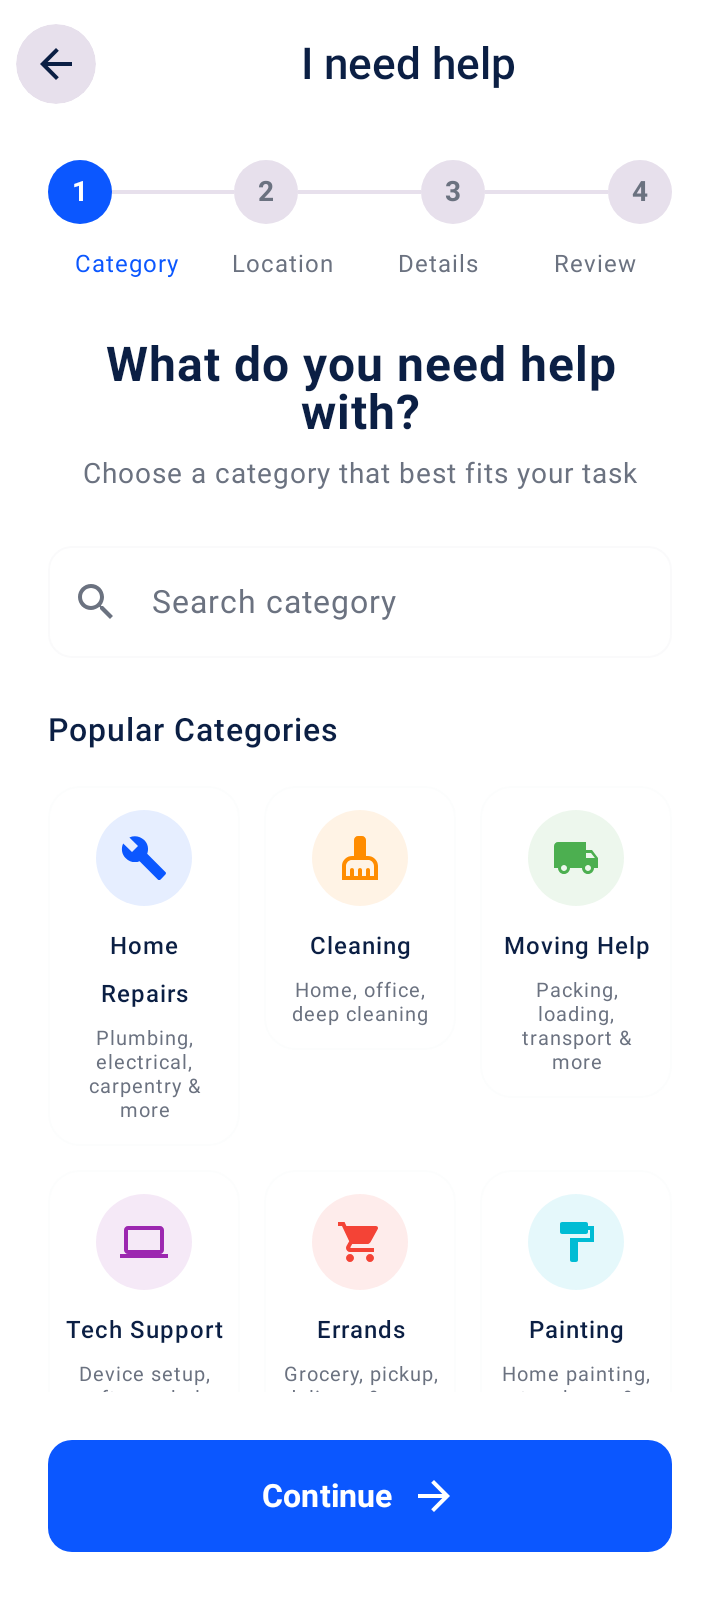
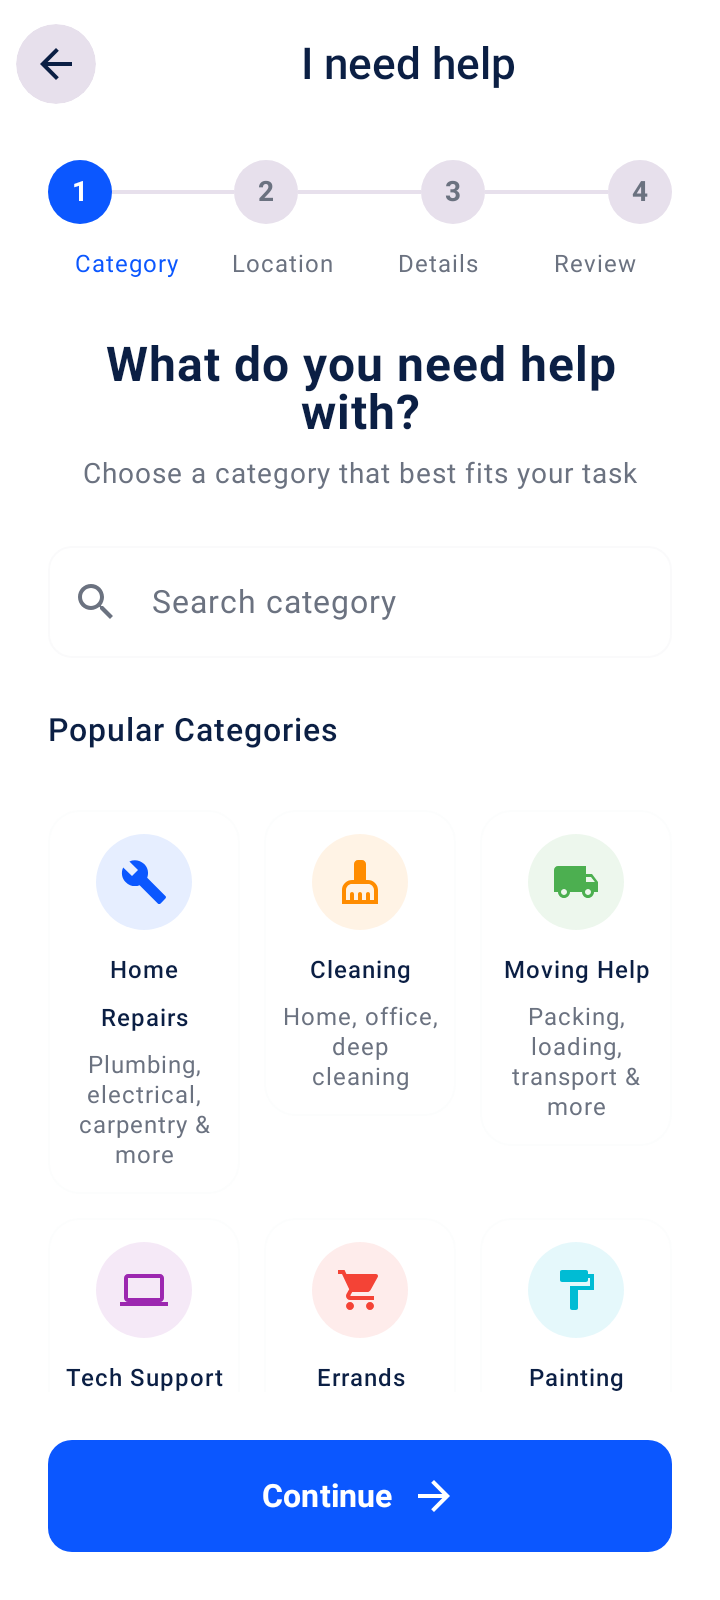
fix(ui): no text below 12 sp; category screen scrolls as one list on small phones (UI-06, UI-07)
On 320x568 phones the fixed heading left a ~60 dp strip for the category tiles.
Heading and search are now the first item of the grid, Continue stays pinned.

Claude-Session: https://claude.ai/code/session_01QY28zRNwgX2X3WFNLJZYHr

diff --git a/app/src/main/java/com/example/ui/screens/taskflow/TaskCategoryScreen.kt b/app/src/main/java/com/example/ui/screens/taskflow/TaskCategoryScreen.kt
@@ -8,6 +8,7 @@ import androidx.compose.foundation.background
 import androidx.compose.foundation.clickable
 import androidx.compose.foundation.layout.*
 import androidx.compose.foundation.lazy.grid.GridCells
+import androidx.compose.foundation.lazy.grid.GridItemSpan
 import androidx.compose.foundation.lazy.grid.LazyVerticalGrid
 import androidx.compose.foundation.lazy.grid.items
 import androidx.compose.foundation.rememberScrollState
@@ -42,48 +43,12 @@ fun TaskCategoryScreen(onNext: () -> Unit, viewModel: TaskViewModel) {
             .fillMaxSize()
             .padding(horizontal = 24.dp)
     ) {
-        Text(
-            text = stringResource(R.string.taskcategory_what_do_you_need_help_with),
-            fontSize = 24.sp,
-            fontWeight = FontWeight.Bold,
-            color = MaterialTheme.colorScheme.onBackground,
-            textAlign = TextAlign.Center,
-            modifier = Modifier.fillMaxWidth().padding(top = 8.dp)
-        )
-        
-        Text(
-            text = stringResource(R.string.taskcategory_choose_a_category_that_best_fits),
-            fontSize = 14.sp,
-            color = MaterialTheme.colorScheme.onSurfaceVariant,
-            textAlign = TextAlign.Center,
-            modifier = Modifier.fillMaxWidth().padding(top = 4.dp, bottom = 24.dp)
-        )
-        
         var showError by remember { mutableStateOf(false) }
         val filteredCategories = dummyCategories.filter {
             it.title.contains(uiState.searchCategoryQuery, ignoreCase = true) ||
             it.subtitle.contains(uiState.searchCategoryQuery, ignoreCase = true)
         }
 
-        OutlinedTextField(
-            value = uiState.searchCategoryQuery,
-            onValueChange = { viewModel.updateSearchCategoryQuery(it) },
-            placeholder = { Text(stringResource(R.string.taskcategory_search_category)) },
-            leadingIcon = { Icon(Icons.Default.Search, contentDescription = null) },
-            modifier = Modifier.fillMaxWidth(),
-            shape = RoundedCornerShape(12.dp),
-            colors = OutlinedTextFieldDefaults.colors(
-                unfocusedBorderColor = MaterialTheme.colorScheme.outline.copy(alpha = 0.2f)
-            )
-        )
-        
-        Text(
-            text = stringResource(R.string.taskcategory_popular_categories),
-            fontSize = 16.sp,
-            fontWeight = FontWeight.SemiBold,
-            modifier = Modifier.padding(top = 24.dp, bottom = 16.dp)
-        )
-        
         LazyVerticalGrid(
             // 3 columns on phones, more on tablets, fewer when the user's font size is large
             columns = GridCells.Adaptive(minSize = 96.dp * LocalConfiguration.current.fontScale.coerceIn(1f, 1.6f)),
@@ -91,6 +56,46 @@ fun TaskCategoryScreen(onNext: () -> Unit, viewModel: TaskViewModel) {
             verticalArrangement = Arrangement.spacedBy(12.dp),
             modifier = Modifier.weight(1f)
         ) {
+            // Heading and search scroll together with the tiles, so small phones show more tiles.
+            item(span = { GridItemSpan(maxLineSpan) }) {
+                Column {
+                Text(
+                    text = stringResource(R.string.taskcategory_what_do_you_need_help_with),
+                    fontSize = 24.sp,
+                    fontWeight = FontWeight.Bold,
+                    color = MaterialTheme.colorScheme.onBackground,
+                    textAlign = TextAlign.Center,
+                    modifier = Modifier.fillMaxWidth().padding(top = 8.dp)
+                )
+        
+                Text(
+                    text = stringResource(R.string.taskcategory_choose_a_category_that_best_fits),
+                    fontSize = 14.sp,
+                    color = MaterialTheme.colorScheme.onSurfaceVariant,
+                    textAlign = TextAlign.Center,
+                    modifier = Modifier.fillMaxWidth().padding(top = 4.dp, bottom = 24.dp)
+                )
+        
+                OutlinedTextField(
+                    value = uiState.searchCategoryQuery,
+                    onValueChange = { viewModel.updateSearchCategoryQuery(it) },
+                    placeholder = { Text(stringResource(R.string.taskcategory_search_category)) },
+                    leadingIcon = { Icon(Icons.Default.Search, contentDescription = null) },
+                    modifier = Modifier.fillMaxWidth(),
+                    shape = RoundedCornerShape(12.dp),
+                    colors = OutlinedTextFieldDefaults.colors(
+                        unfocusedBorderColor = MaterialTheme.colorScheme.outline.copy(alpha = 0.2f)
+                    )
+                )
+        
+                Text(
+                    text = stringResource(R.string.taskcategory_popular_categories),
+                    fontSize = 16.sp,
+                    fontWeight = FontWeight.SemiBold,
+                    modifier = Modifier.padding(top = 24.dp, bottom = 16.dp)
+                )
+                }
+            }
             items(filteredCategories) { category ->
                 val isSelected = selectedCategory == category.id
                 
@@ -155,10 +160,10 @@ fun TaskCategoryScreen(onNext: () -> Unit, viewModel: TaskViewModel) {
                             
                             Text(
                                 text = category.subtitle,
-                                fontSize = 10.sp,
+                                fontSize = 12.sp,
                                 color = MaterialTheme.colorScheme.onSurfaceVariant,
                                 textAlign = TextAlign.Center,
-                                lineHeight = 12.sp
+                                lineHeight = 15.sp
                             )
                         }
                     }

diff --git a/app/src/main/java/com/example/ui/screens/helper/WorkerChatScreen.kt b/app/src/main/java/com/example/ui/screens/helper/WorkerChatScreen.kt
@@ -180,7 +180,7 @@ fun ChatListItem(task: TaskEntity, onClick: () -> Unit) {
                     shape = RoundedCornerShape(4.dp),
                     modifier = Modifier.padding(end = 6.dp)
                 ) {
-                    Text(category, color = BluePrimary, fontSize = 10.sp, fontWeight = FontWeight.Bold, modifier = Modifier.padding(horizontal = 6.dp, vertical = 2.dp))
+                    Text(category, color = BluePrimary, fontSize = 12.sp, fontWeight = FontWeight.Bold, modifier = Modifier.padding(horizontal = 6.dp, vertical = 2.dp))
                 }
             }
             Spacer(modifier = Modifier.height(4.dp))
@@ -387,7 +387,7 @@ fun MessageBubble(text: String, isSender: Boolean, time: String, status: String?
             }
             Spacer(modifier = Modifier.height(4.dp))
             Row(verticalAlignment = Alignment.CenterVertically) {
-                Text(time, fontSize = 11.sp, color = SecondaryGrey)
+                Text(time, fontSize = 12.sp, color = SecondaryGrey)
                 if (isSender && status != null) {
                     Spacer(modifier = Modifier.width(4.dp))
                     Icon(

diff --git a/docs/audit/APP_AUDIT_REPORT.md b/docs/audit/APP_AUDIT_REPORT.md
@@ -193,8 +193,8 @@ Status: **Open** · **Fixed** (commit on branch) · **Preview** (mockup waiting 
 | UI-03 | `MobileLoginFlow.kt`, `ProfileAndPermissions.kt:150` | Mobile, OTP, Forgot, Permission screens not scrollable; keyboard hides buttons at large font | P2 | Scroll + keyboard padding | Fixed |
 | UI-04 | `MobileLoginFlow.kt:58`, `SignInAndSignUp.kt:99-115`, `TaskFlowContainer.kt:228` | Max font: "+91" box wraps to 2 lines, "Forgot Password?" becomes a vertical strip, step labels break mid-word (V — `mockups/before/*_font200_before.png`) | P2 | Flexible widths, wrap rows, single-line labels | Fixed |
 | UI-05 | `RoleSelectionScreen.kt:281` | Role card fixed 160 dp height → text clipped at max font size (V) | P2 | `heightIn(min = 160.dp)` | Fixed |
-| UI-06 | `TaskCategoryScreen.kt:69-77` | Category tiles fixed 0.8 ratio, 10 sp text → clipped at max font; 3 columns even on tablets | P2 | Adaptive columns, min height | Fixed |
-| UI-07 | many | Text 10–12 sp is too small for older users | P3 | Design tokens / type scale | Open |
+| UI-06 | `TaskCategoryScreen.kt:69-77` | Category tiles fixed 0.8 ratio, 10 sp text → clipped at max font; 3 columns even on tablets; on 320×568 phones the tiles were stuck in a ~60 dp strip under a fixed heading | P2 | Adaptive columns, min height; heading + search now scroll with the tiles | Fixed |
+| UI-07 | many | Text 10–12 sp is too small for older users | P3 | No text below 12 sp now; category subtitles got proper line spacing. Full design-token pass still open | Partly fixed |
 | UI-08 | `MainActivity.kt:13`, `res/values/themes.xml` | Phone in dark mode → status-bar icons white on white app; MIUI force-dark may invert colours; window bg not set (black flash) | P1 | Force dark status-bar icons, `forceDarkAllowed=false`, white window bg, light Material theme | Fixed |
 | UI-09 | `Theme.kt:20-28` | `onSurface` = grey #6B7280; with 60 % alpha subtitles become ~2.6:1 contrast (fails 4.5:1; unreadable in sunlight) | P2 | `onSurface` = navy, `onSurfaceVariant` = grey | Fixed |
 | UI-10 | all | Tablets/landscape: single column stretched edge-to-edge (1,200 dp wide buttons) | P3 | Content capped at 640 dp, centred (`ui/theme/AppFrame.kt`) (V screenshot) | Fixed |
@@ -246,7 +246,7 @@ Status: **Open** · **Fixed** (commit on branch) · **Preview** (mockup waiting 
 | BRK-15 | `HelperFlowContainer.kt:53` | Chat badge always "3" | P3 | Remove fake badge | Fixed |
 | BRK-16 | `RoleSelectionScreen.kt:50` | Hindi choice not saved, not app-wide; "change later in settings" — no settings | P2 | App-wide i18n (I18N-01) | Open |
 | BRK-17 | — | Customer can't see posted tasks or offers | P1 | "My tasks" screen | Preview (batch 2) |
-| I18N-01 | all `.kt` | All text hardcoded in Kotlin; only role screen has Hindi | P2 | Move to `strings.xml`, add `values-hi` (D13) | Open |
+| I18N-01 | all `.kt` | All text hardcoded in Kotlin; only role screen has Hindi | P2 | 116 texts of login, role and task-posting screens moved to `strings.xml` (screens pixel-identical). Left: ~50 texts built from values / pop-ups / role-screen Hindi pairs, all helper screens, then `values-hi` (D13) | Partly fixed |
 
 ### B. QA walkthrough highlights (personas)
 | # | Persona | Steps | Expected | Actual | Sev | ID |

diff --git a/docs/audit/MANUAL_TEST_CHECKLIST.md b/docs/audit/MANUAL_TEST_CHECKLIST.md
@@ -15,6 +15,8 @@ Redmi/Realme), one mid-range Android, one tablet or foldable.
 - [ ] 3-button navigation and gesture navigation: nothing hidden under the bars
 - [ ] Post a task: tap "Post Task" twice quickly → only one task; then "I need help" again → empty form (no old draft)
 - [ ] Add 2 photos to a task, force-stop the app, reopen → photos still show
+- [ ] Small phone (or largest font): on "What do you need help with?" swipe up → heading scrolls away and all 9 categories are reachable; Continue stays at the bottom
+- [ ] Category search still keeps the keyboard open while typing
 - [ ] Budget: letters not accepted; Min 2000 / Max 500 shows an error; review shows ₹1,25,000 style
 - [ ] Helper → Chat → open a chat → Back closes the chat (does not leave the helper area)
 - [ ] Helper → Tasks: reject a task → it shows "Rejected"; search box filters the list

diff --git a/docs/audit/PROGRESS.md b/docs/audit/PROGRESS.md
@@ -23,7 +23,7 @@ Full report: [APP_AUDIT_REPORT.md](APP_AUDIT_REPORT.md)
 See the Status column of the issue table in the report. Updated after each commit.
 
 ## Still open (no decision needed, not done yet)
-- UI-07 small text sizes / design-token pass
-- I18N-01 move all text to `strings.xml` + Hindi (needs D13 for wording)
+- UI-07 design-token pass (minimum 12 sp done)
+- I18N-01: login/role/task screens moved to strings.xml (5316d8e); helper screens + values-hi still to do (Hindi wording needs D13)
 - Still dead (need backend or batch-2 screens): Place Bid on helper Home card, chat Call/Attach/Mic/quick actions, Map tab
 - SEC-06 backup rules (when login tokens exist)
